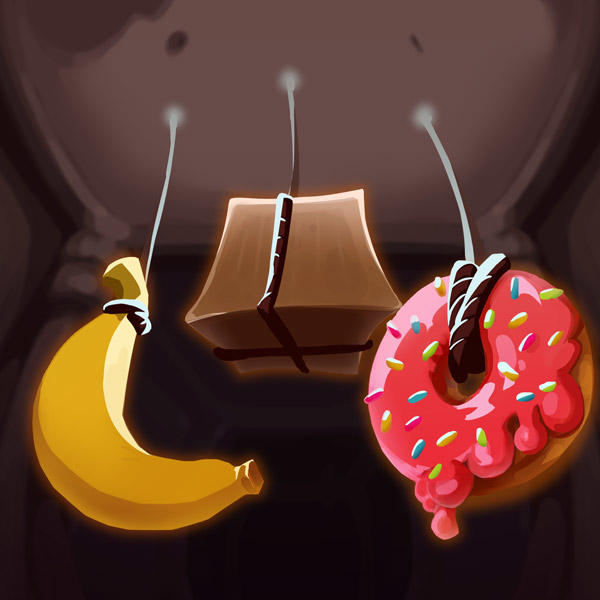
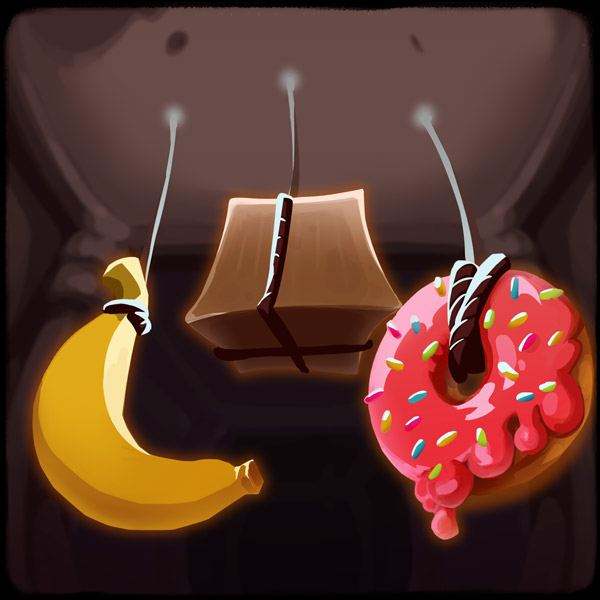
EventView aufgehübscht, Event-Images bearbeitet

Changed region(s): [[0.0, 0.0, 1.0, 1.0]]

diff --git a/src/view/gui/EventView.java b/src/view/gui/EventView.java
@@ -7,15 +7,16 @@ import javafx.geometry.VPos;
 import javafx.scene.control.Button;
 import javafx.scene.control.Label;
 import javafx.scene.effect.DropShadow;
-import javafx.scene.image.Image;
 import javafx.scene.image.ImageView;
 import javafx.scene.layout.*;
 import javafx.scene.paint.Color;
+import javafx.scene.shape.ArcTo;
+import javafx.scene.shape.Circle;
 import javafx.scene.text.Font;
 import javafx.scene.text.Text;
 import javafx.scene.text.TextAlignment;
 import models.event.Event;
-import models.event.act_one.BigFish;
+import models.player.player_structure.Player;
 
 public class EventView {
 
@@ -31,16 +32,17 @@ public class EventView {
     Font labelFont = Font.loadFont(getClass().getResourceAsStream("/font/kreon/static/Kreon-Bold.ttf"), 44);
     Text story = new Text();
     Font textFont = Font.loadFont(getClass().getResourceAsStream("/font/kreon/static/Kreon-Bold.ttf"), 30);
-    Button option1 = new Button();
-    Button option2 = new Button();
-    Button option3 = new Button();
+    Button option1;
+    Button option2;
+    Button option3;
     Button leave = new Button("\t[Leave]");
     Background buttonBG = new Background(GuiHelper.background("/images/event/event_layout/disabledButton.png"));
     Background buttonHighlight = new Background(GuiHelper.background("/images/event/event_layout/enabledButton.png"));
     Event event;
+    Player player;
 
 
-    public EventView(Event event){
+    public EventView(Event event, Player player){
         leftBox.getChildren().clear();
         rightBox.getChildren().clear();
         displayBox.getChildren().clear();
@@ -49,9 +51,9 @@ public class EventView {
         this.event = event;
         this.label.setText(event.getTitle());
         this.story.setText(event.getStory());
-        this.option1 = event.getButton1();
-        this.option2 = event.getButton2();
-        this.option3 = event.getButton3();
+        this.option1 = event.getButton1(player);
+        this.option2 = event.getButton2(player);
+        this.option3 = event.getButton3(player);
 
         layoutPane.setBackground(paneBG);
         displayBox.setBackground(eventBG);
@@ -62,7 +64,7 @@ public class EventView {
 
         img.setScaleX(0.8);
         img.setScaleY(0.8);
-        img.setX(100.0);
+        img.setEffect(dr);
         leftBox.setAlignment(Pos.CENTER_LEFT);
         leftBox.getChildren().addAll(label, img);
         rightBox.setAlignment(Pos.CENTER_RIGHT);
@@ -90,6 +92,25 @@ public class EventView {
         option1.setAlignment(Pos.BASELINE_LEFT);
         option1.setTextFill(Color.WHITE);
         option1.setBackground(buttonBG);
+        option1.setOnMouseEntered(event1 -> {
+            option1.setBackground(buttonHighlight);
+        });
+        option1.setOnMouseExited(event1 -> {
+            option1.setBackground(buttonBG);
+        });
+        option1.setOnMousePressed(event1 -> {
+            option1.setBackground(buttonBG);
+            option1.setScaleX(option1.getScaleX() * 0.99);
+            option1.setScaleY(option1.getScaleY() * 0.9);
+        });
+        option1.setOnMouseReleased(event1 -> {
+            option1.setBackground(buttonHighlight);
+            option1.setScaleX(option1.getScaleX() * 1.01);
+            option1.setScaleY(option1.getScaleY() * 1.1);
+        });
+        option1.setOnMouseClicked(event1 -> {
+            rightBox.getChildren().removeAll(option1, option2, option3);
+        });
 
         option2.setPrefSize(1200, 100);
         option2.setScaleX(0.8);
@@ -98,6 +119,25 @@ public class EventView {
         option2.setAlignment(Pos.BASELINE_LEFT);
         option2.setTextFill(Color.WHITE);
         option2.setBackground(buttonBG);
+        option2.setOnMouseEntered(event1 -> {
+            option2.setBackground(buttonHighlight);
+        });
+        option2.setOnMouseExited(event1 -> {
+            option2.setBackground(buttonBG);
+        });
+        option2.setOnMousePressed(event1 -> {
+            option2.setBackground(buttonBG);
+            option2.setScaleX(option2.getScaleX() * 0.99);
+            option2.setScaleY(option2.getScaleY() * 0.9);
+        });
+        option2.setOnMouseReleased(event1 -> {
+            option2.setBackground(buttonHighlight);
+            option2.setScaleX(option2.getScaleX() * 1.01);
+            option2.setScaleY(option2.getScaleY() * 1.1);
+        });
+        option2.setOnMouseClicked(event1 -> {
+            rightBox.getChildren().removeAll(option1, option2, option3);
+        });
 
         option3.setPrefSize(1200, 100);
         option3.setScaleX(0.8);
@@ -106,6 +146,25 @@ public class EventView {
         option3.setAlignment(Pos.BASELINE_LEFT);
         option3.setTextFill(Color.WHITE);
         option3.setBackground(buttonBG);
+        option3.setOnMouseEntered(event1 -> {
+            option3.setBackground(buttonHighlight);
+        });
+        option3.setOnMouseExited(event1 -> {
+            option3.setBackground(buttonBG);
+        });
+        option3.setOnMousePressed(event1 -> {
+            option3.setBackground(buttonBG);
+            option3.setScaleX(option3.getScaleX() * 0.99);
+            option3.setScaleY(option3.getScaleY() * 0.9);
+        });
+        option3.setOnMouseReleased(event1 -> {
+            option3.setBackground(buttonHighlight);
+            option3.setScaleX(option3.getScaleX() * 1.01);
+            option3.setScaleY(option3.getScaleY() * 1.1);
+        });
+        option3.setOnMouseClicked(event1 -> {
+            rightBox.getChildren().removeAll(option1, option2, option3);
+        });
 
         leave.setPrefSize(1200, 100);
         leave.setScaleX(0.8);
@@ -114,12 +173,41 @@ public class EventView {
         leave.setAlignment(Pos.BASELINE_LEFT);
         leave.setTextFill(Color.WHITE);
         leave.setBackground(buttonBG);
+        leave.setOnMouseEntered(event1 -> {
+            leave.setBackground(buttonHighlight);
+        });
+        leave.setOnMousePressed(event1 -> {
+            leave.setBackground(buttonBG);
+            leave.setScaleX(leave.getScaleX() * 0.99);
+            leave.setScaleY(leave.getScaleY() * 0.9);
+        });
+        leave.setOnMouseReleased(event1 -> {
+            leave.setBackground(buttonHighlight);
+            leave.setScaleX(leave.getScaleX() * 1.01);
+            leave.setScaleY(leave.getScaleY() * 1.1);
+        });
+        leave.setOnMouseExited(event1 -> {
+            leave.setBackground(buttonBG);
+        });
+    }
+
+    public Button getOption1() {
+        return option1;
+    }
+
+    public Button getOption2() {
+        return option2;
+    }
+
+    public Button getOption3() {
+        return option3;
     }
 
     public BorderPane display() {
         initStyle();
 
-        rightBox.getChildren().addAll(story, option1, option2, option3);
+        rightBox.getChildren().add(story);
+        rightBox.getChildren().addAll(option1, option2, option3);
         rightBox.getChildren().add(leave);
 
         return layoutPane;

diff --git a/src/models/event/act_one/BigFish.java b/src/models/event/act_one/BigFish.java
@@ -19,9 +19,9 @@ public class BigFish extends Event{
     private String story = "\n\nAs you make your way down a long corridor you see a banana, a donut, and a box floating about. \n" +
             "No... upon closer inspection they are tied to strings coming from holes in the ceiling.\n " +
             "There is a quiet cackling from above as you approach the objects.\n";
-    private Button banana = new Button("\t[Banana]");
-    private Button donut = new Button("\t[Donut]");
-    private Button box = new Button("\t[Box]");
+    private Button banana = new Button("\t[Banana] Heal 1/3 of your max HP.");
+    private Button donut = new Button("\t[Donut] Max HP +5.");
+    private Button box = new Button("\t[Box] We don't have a relic, stop looking!");
 
     public BigFish() {
         super();
@@ -40,16 +40,22 @@ public class BigFish extends Event{
         return image;
     }
 
-    public Button getButton1(){
+    public Button getButton1(Player player){
+        banana.setOnMouseClicked(event -> {
+            player.increaseCurrentHealth(player.getMaxHealth() / 3);
+        });
         return banana;
     }
 
-    public Button getButton2(){
+    public Button getButton2(Player player){
+        banana.setOnMouseClicked(event -> {
+            player.increaseMaxHealth(5);
+        });
         return donut;
     }
 
     @Override
-    public Button getButton3() {
+    public Button getButton3(Player player) {
         return box;
     }
 }

diff --git a/src/controller/gui/EventController.java b/src/controller/gui/EventController.java
@@ -1,26 +1,24 @@
 package controller.gui;
 
-import javafx.scene.image.Image;
 import javafx.scene.layout.BorderPane;
 import javafx.stage.Stage;
 import models.event.Event;
 import models.event.act_one.BigFish;
+import models.player.player_structure.Player;
 import view.gui.EventView;
 
 public class EventController {
     private Stage eventStage;
-    Image img = new Image("/images/event/act_one/BigFishEvent.png");
-    Event randomEvent;
+    private Event randomEvent;
 
 
 
-    public BorderPane getEventView(Stage stage){
-        EventView ev = new EventView(randomEvent());
+    public BorderPane getEventView(Player player){
+        EventView ev = new EventView(randomEvent(), player);
 
-        eventStage = stage;
         return ev.display();
     }
-
+    //TODO: random Event auswählen lassen.
     public Event randomEvent() {
         Event bigFish = new BigFish();
 

diff --git a/src/models/event/Event.java b/src/models/event/Event.java
@@ -2,6 +2,7 @@ package models.event;
 
 import javafx.scene.control.Button;
 import javafx.scene.image.Image;
+import models.player.player_structure.Player;
 
 /** Abstrakte Klasse für die Erstellung eines Events
  * @author Loeschner, Marijan
@@ -38,7 +39,7 @@ public abstract class Event {
         return this.title = title;
     }
 
-    public Button getButton1() {
+    public Button getButton1(Player player) {
         return button1;
     }
 
@@ -46,7 +47,7 @@ public abstract class Event {
         this.button1 = button1;
     }
 
-    public Button getButton2() {
+    public Button getButton2(Player player) {
         return button2;
     }
 
@@ -54,7 +55,7 @@ public abstract class Event {
         this.button2 = button2;
     }
 
-    public Button getButton3() {
+    public Button getButton3(Player player) {
         return button3;
     }
 

diff --git a/src/helper/GuiHelper.java b/src/helper/GuiHelper.java
@@ -79,12 +79,13 @@ public class GuiHelper {
         /**
          * Startet die Kampf-Szene (Battle Scene), in der der Spieler gegen eine Liste von Gegnern kämpfen kann.
          *
-         * @param primaryStage die Stage die Übergeben wird
+         * @param player die Stage die Übergeben wird
          */
-        public static void startEventScene(Stage primaryStage) {
+        public static void startEventScene(Player player) {
             EventController cc = new EventController();
+            Stage primaryStage = player.getPrimaryStage();
             String cssPath = "/css/eventStyle.css";
-            fadeTransition(primaryStage, cc.getEventView(primaryStage), cssPath);
+            fadeTransition(primaryStage, cc.getEventView(player), cssPath);
         }
 
         /**

diff --git a/src/app/Main.java b/src/app/Main.java
@@ -3,12 +3,15 @@ package app;
 import helper.GuiHelper;
 import javafx.application.Application;
 import javafx.stage.Stage;
+import models.player.IroncladPlayer;
+import models.player.player_structure.Player;
 
 public class Main extends Application {
     @Override
     public void start(Stage primaryStage) {
+        Player player = new IroncladPlayer(primaryStage);
         //GuiHelper.Scenes.startMainMenuScene(primaryStage);
-        GuiHelper.Scenes.startEventScene(primaryStage);
+        GuiHelper.Scenes.startEventScene(player);
     }
 
     public static void main(String[] args) {
